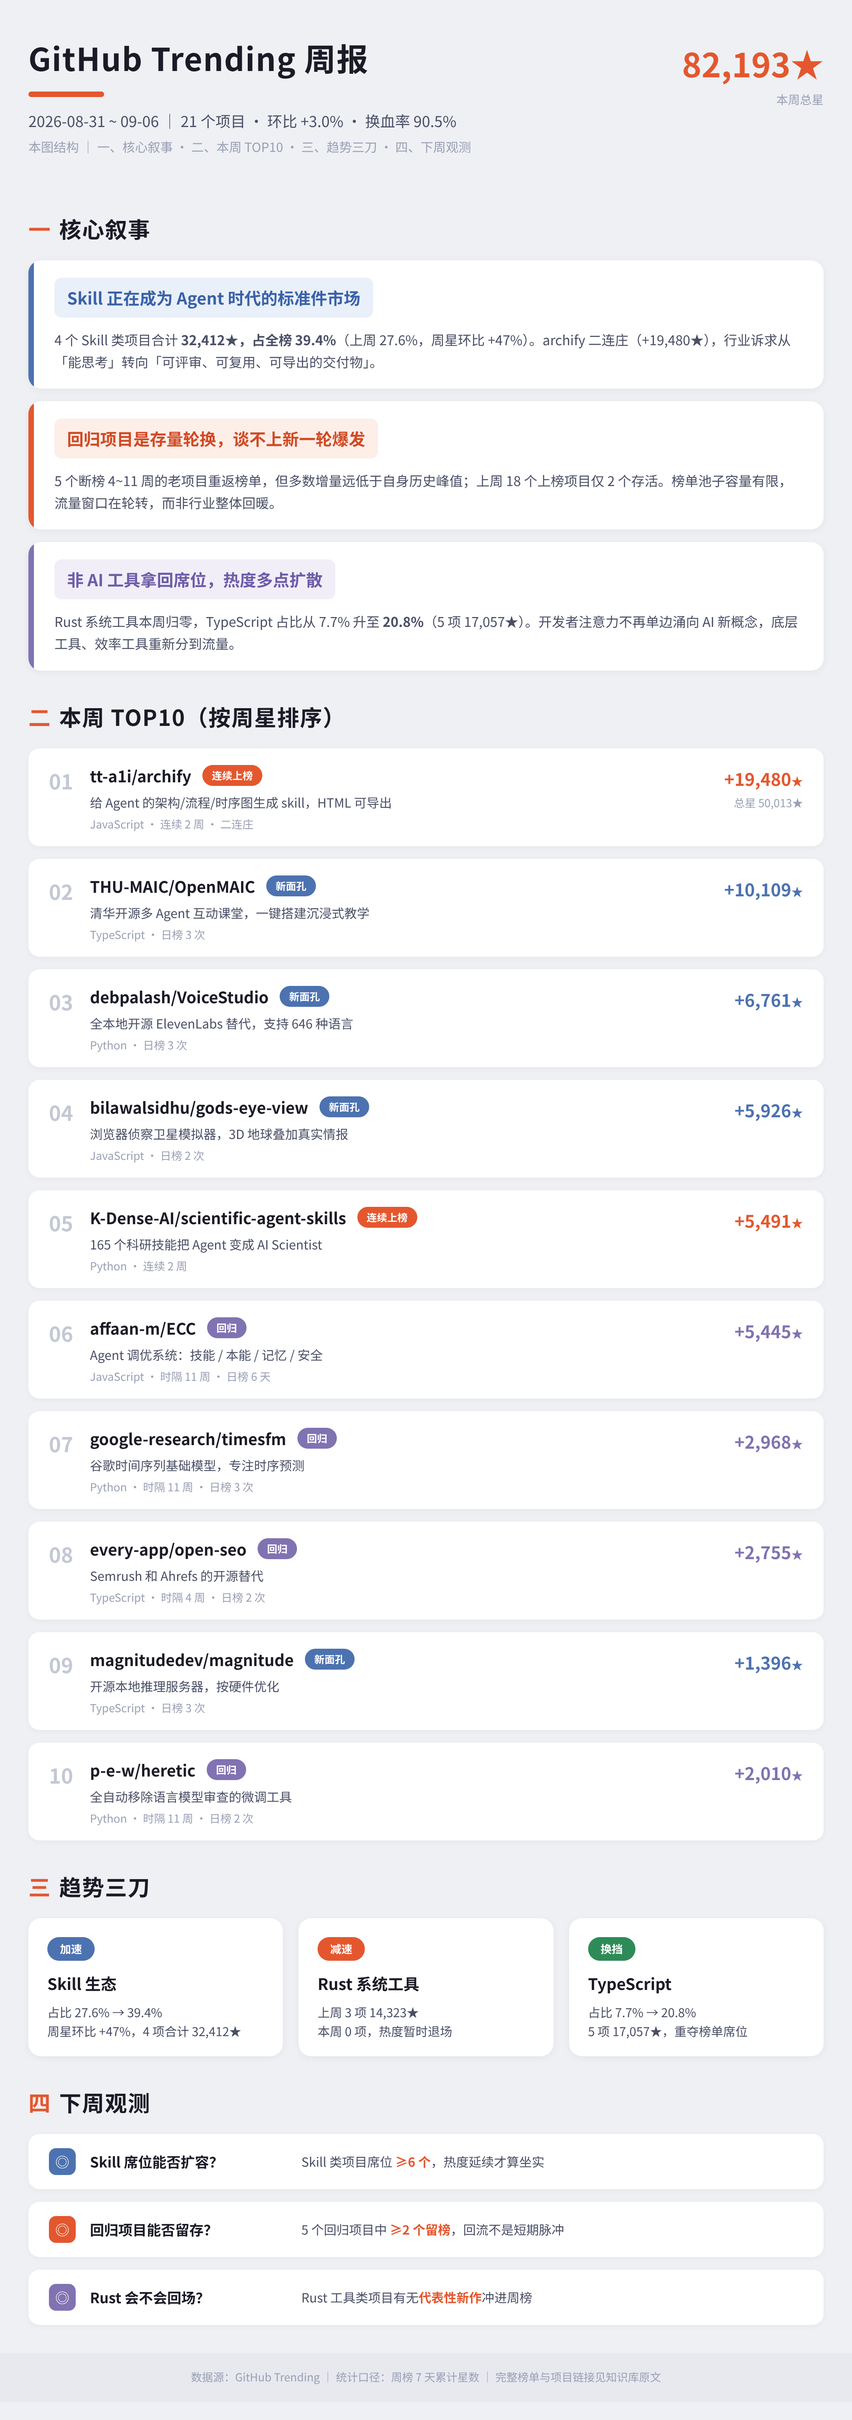
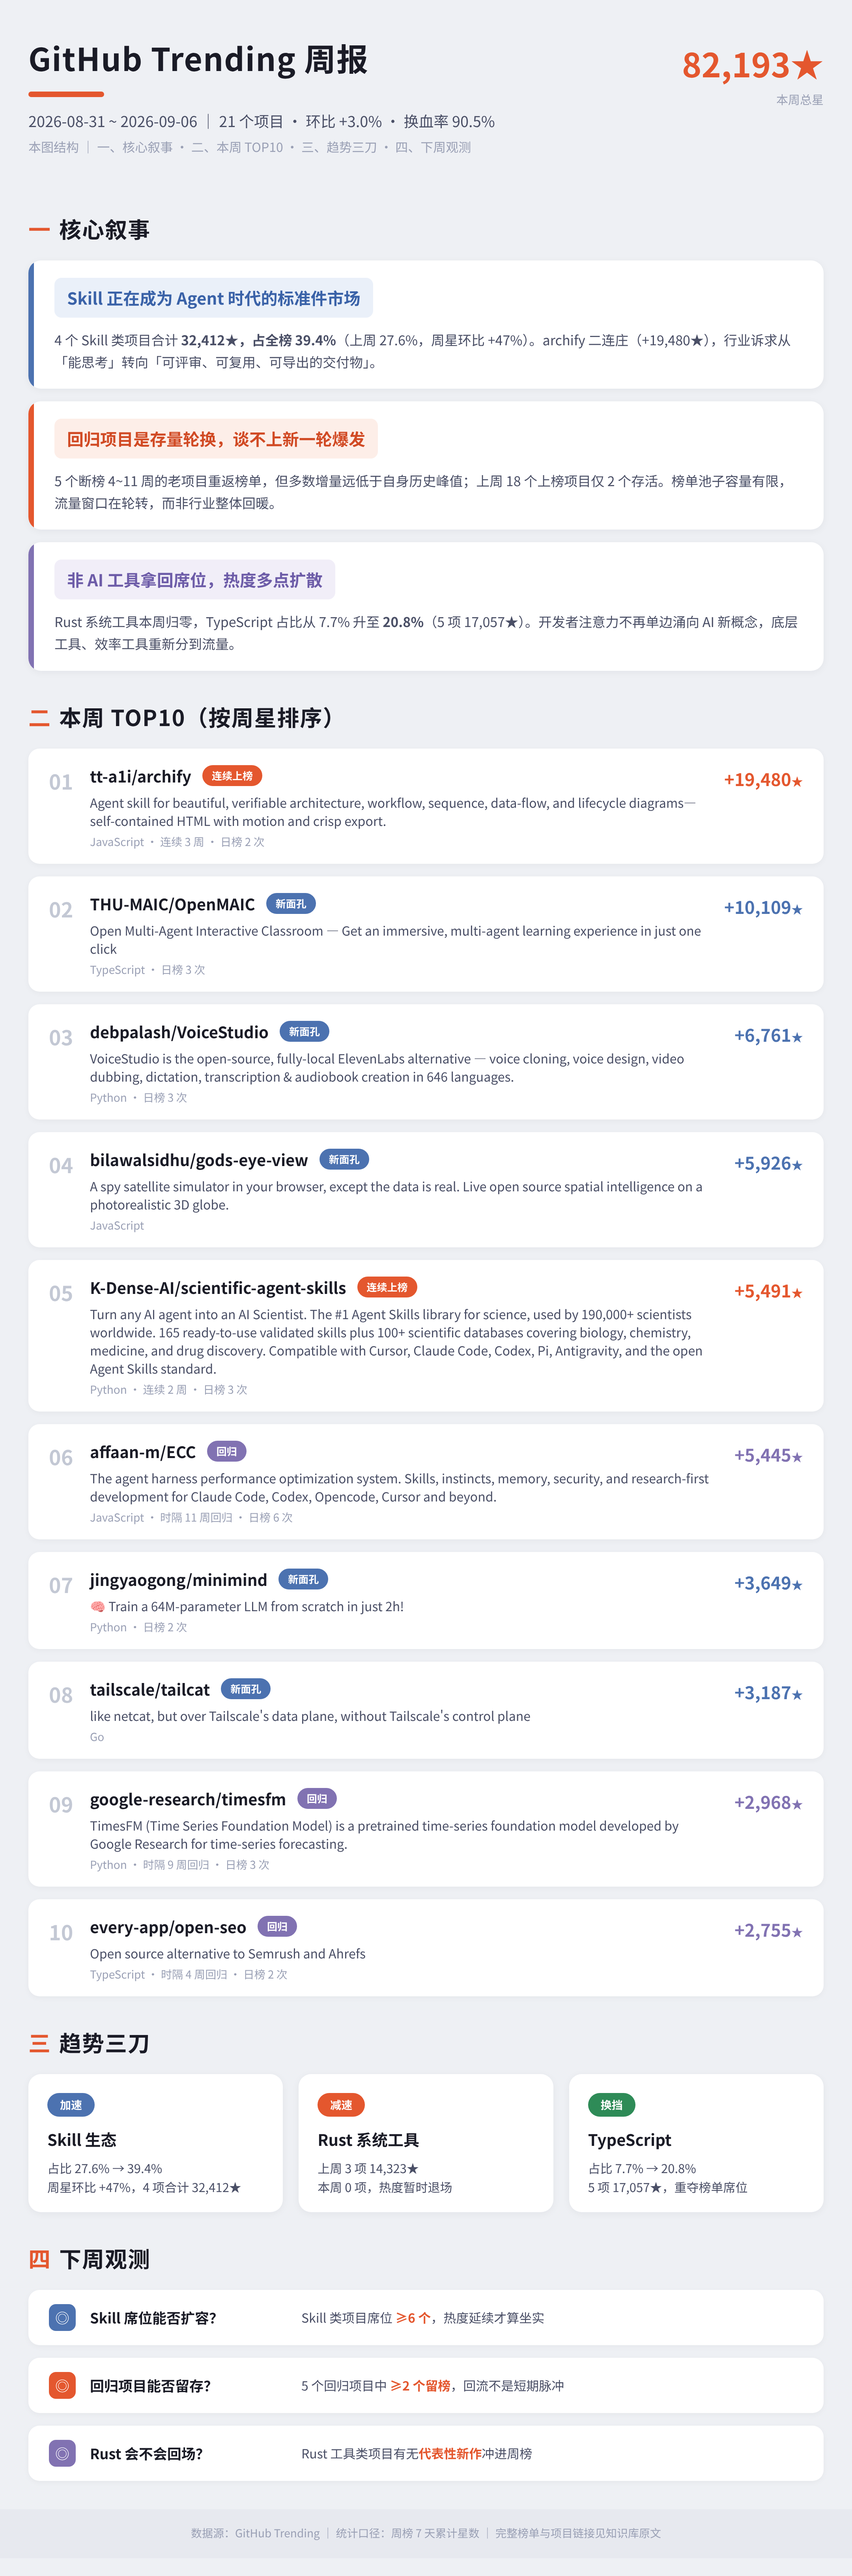
wiki: digest infographic generator (HTML->chromium) + doc swap (digest front, stars in overview); timesfm gap fix 11->9w

diff --git a/scripts/weekly_digest_html.py b/scripts/weekly_digest_html.py
@@ -1,0 +1,222 @@
+#!/usr/bin/env python3
+# -*- coding: utf-8 -*-
+"""周报一图流生成器（HTML → Chromium 截图）
+用法：python3 weekly_digest_html.py <week_end YYYY-MM-DD>
+数据源：/srv/www/github-trending-wiki/data/github_trending.db（weekly_trending / trending_daily / repo_stats）
+输出：reports/weekly/weekly-<week_end>-digest.png（2160px 宽）
+叙事文案需人工审校：本脚本只生成骨架 + 榜单数据，NARRATIVES/KNIVES/WATCH 内容按周报正文替换。
+"""
+import sqlite3, sys, subprocess, os
+import numpy as np
+from PIL import Image
+
+REPO = '/srv/www/github-trending-wiki'
+DB = f'{REPO}/data/github_trending.db'
+
+week_end = sys.argv[1] if len(sys.argv) > 1 else '2026-09-06'
+from datetime import datetime, timedelta
+week_start = (datetime.strptime(week_end, '%Y-%m-%d') - timedelta(days=6)).strftime('%Y-%m-%d')
+
+db = sqlite3.connect(DB)
+
+# ── 基础数据 ──
+rows = list(db.execute(
+    "SELECT repo_full_name, weekly_stars, language, rank, description FROM weekly_trending "
+    "WHERE week_end=?", (week_end,)))
+WK = {r[0]: r[1] for r in rows}
+LANG = {r[0]: r[2] or '' for r in rows}
+DESC = {r[0]: (r[4] or '').strip() for r in rows}
+total_stars = sum(WK.values())
+n_projects = len(rows)
+
+# 上周数据（环比 + 换血）
+prev_end = None
+prev_total = None
+prev_names = set()
+r = db.execute("SELECT MAX(week_end) FROM weekly_trending WHERE week_end<?", (week_end,)).fetchone()
+if r and r[0]:
+    prev_end = r[0]
+    prev_total = db.execute("SELECT SUM(weekly_stars) FROM weekly_trending WHERE week_end=?", (prev_end,)).fetchone()[0] or 0
+    prev_names = {x[0] for x in db.execute("SELECT repo_full_name FROM weekly_trending WHERE week_end=?", (prev_end,))}
+wow = (total_stars - prev_total) / prev_total * 100 if prev_total else 0
+churn = sum(1 for n in WK if n not in prev_names) / n_projects * 100 if prev_names else 0
+
+# 组别推导：连续 / 回归（断档周数）/ 新面孔
+def weeks_gone(name):
+    """断档周数：按日历周差算（DB 可能缺周，如 2026-08-02），上周减上次上榜周的周数差"""
+    r = db.execute("SELECT MAX(week_end) FROM weekly_trending WHERE repo_full_name=? AND week_end<?", (name, prev_end)).fetchone()
+    if not r or not r[0]:
+        return 99
+    from datetime import datetime
+    import datetime as dt
+    cur = datetime.strptime(r[0], '%Y-%m-%d') + dt.timedelta(days=7)
+    gap = 0
+    while cur < datetime.strptime(prev_end, '%Y-%m-%d'):
+        gap += 1
+        cur += dt.timedelta(days=7)
+    return gap
+
+GROUP = {}
+for name in WK:
+    if name in prev_names:
+        GROUP[name] = ('连续上榜', 'orange')
+    else:
+        g = weeks_gone(name)
+        GROUP[name] = (f'断档 {g} 周', 'purple') if g <= 11 else ('新面孔', 'blue')
+
+# 日榜次数（本周期内）
+daily = {}
+for name, cnt in db.execute(
+        "SELECT repo_full_name, COUNT(*) FROM trending_daily "
+        "WHERE date BETWEEN ? AND ? AND repo_full_name IN ({}) GROUP BY repo_full_name".format(
+            ','.join('?' * len(WK))), (week_start, week_end, *WK.keys())):
+    daily[name] = cnt
+
+# ── TOP10 副信息行 ──
+def subline(name):
+    tag, color = GROUP[name]
+    parts = []
+    if LANG[name]:
+        parts.append(LANG[name])
+    if name in prev_names:
+        n_weeks = db.execute("SELECT COUNT(DISTINCT week_end) FROM weekly_trending WHERE repo_full_name=? AND week_end<=?", (name, week_end)).fetchone()[0]
+        parts.append(f'连续 {n_weeks} 周' if tag == '连续上榜' else '')
+    elif tag.startswith('断档'):
+        parts.append(f'时隔 {tag[3:-1]} 周回归')
+    if daily.get(name):
+        parts.append(f'日榜 {daily[name]} 次')
+    return ' · '.join(p for p in parts if p)
+
+top10 = sorted(WK.items(), key=lambda kv: kv[1], reverse=True)[:10]
+
+# ══ 生成 HTML（叙事区留占位，按周改） ══
+TAG_LABEL = {'blue': '新面孔', 'orange': '连续上榜', 'purple': '回归'}
+C = {'blue': '#4C72B0', 'orange': '#E4572E', 'purple': '#8172B2', 'green': '#2E8B57'}
+
+# TODO(每周手填)：NARRATIVES / KNIVES / WATCH 按周报正文更新
+NARRATIVES = [
+    (C['blue'], '#EAF0F9', '#3A62A8', 'Skill 正在成为 Agent 时代的标准件市场',
+     '4 个 Skill 类项目合计 <b>32,412★，占全榜 39.4%</b>（上周 27.6%，周星环比 +47%）。archify 二连庄（+19,480★），行业诉求从「能思考」转向「可评审、可复用、可导出的交付物」。'),
+    (C['orange'], '#FDEEE8', '#D14A24', '回归项目是存量轮换，谈不上新一轮爆发',
+     '5 个断榜 4~11 周的老项目重返榜单，但多数增量远低于自身历史峰值；上周 18 个上榜项目仅 2 个存活。榜单池子容量有限，流量窗口在轮转，而非行业整体回暖。'),
+    (C['purple'], '#F1EEF8', '#6D5CA8', '非 AI 工具拿回席位，热度多点扩散',
+     'Rust 系统工具本周归零，TypeScript 占比从 7.7% 升至 <b>20.8%</b>（5 项 17,057★）。开发者注意力不再单边涌向 AI 新概念，底层工具、效率工具重新分到流量。'),
+]
+KNIVES = [
+    (C['blue'], '加速', 'Skill 生态', '占比 27.6% → 39.4%<br>周星环比 +47%，4 项合计 32,412★'),
+    (C['orange'], '减速', 'Rust 系统工具', '上周 3 项 14,323★<br>本周 0 项，热度暂时退场'),
+    (C['green'], '换挡', 'TypeScript', '占比 7.7% → 20.8%<br>5 项 17,057★，重夺榜单席位'),
+]
+WATCH = [
+    ('Skill 席位能否扩容？', 'Skill 类项目席位 <b>≥6 个</b>，热度延续才算坐实'),
+    ('回归项目能否留存？', '5 个回归项目中 <b>≥2 个留榜</b>，回流不是短期脉冲'),
+    ('Rust 会不会回场？', 'Rust 工具类项目有无<b>代表性新作</b>冲进周榜'),
+]
+
+def esc(s):
+    return s.replace('&', '&amp;').replace('<', '&lt;')
+
+top10_html = ''
+for i, (name, stars) in enumerate(top10):
+    tag, color = GROUP[name]
+    s = f'+{stars:,}<span style="font-size:15px">★</span>'
+    top10_html += f'''<div class="row">
+    <div class="idx">{i+1:02d}</div>
+    <div class="main">
+      <div class="l1"><span class="name">{esc(name)}</span><span class="tag" style="background:{C[color]}">{TAG_LABEL[color]}</span></div>
+      <div class="desc">{esc(DESC.get(name, ''))}</div>
+      <div class="sub">{esc(subline(name))}</div>
+    </div>
+    <div class="stars"><div class="wk" style="color:{C[color]}">{s}</div></div>
+  </div>'''
+
+narr_html = ''.join(f'''<div class="narr">
+  <div class="spine" style="background:{c}"></div>
+  <div class="body"><div class="ttl" style="background:{bg};color:{fg}">{t}</div><p>{p}</p></div>
+</div>''' for c, bg, fg, t, p in NARRATIVES)
+
+knife_html = ''.join(f'''<div class="knife"><span class="tag" style="background:{c}">{tag}</span>
+  <h3>{t}</h3><p>{p}</p></div>''' for c, tag, t, p in KNIVES)
+
+watch_html = ''.join(f'''<div class="watch"><div class="ico" style="background:{c}">◎</div>
+  <div class="q">{q}</div><div class="m">{m}</div></div>'''
+    for (q, m), c in zip(WATCH, [C['blue'], C['orange'], C['purple']]))
+
+HTML = f'''<!DOCTYPE html><html lang="zh"><head><meta charset="UTF-8">
+<style>
+  * {{ margin:0; padding:0; box-sizing:border-box; }}
+  body {{ font-family:'Noto Sans CJK SC','Noto Sans SC',sans-serif; background:#EEF0F4; width:1080px; }}
+  .wrap {{ padding:0 36px; }}
+  .head {{ padding:44px 36px 34px; display:flex; justify-content:space-between; align-items:flex-start; }}
+  .head h1 {{ font-size:40px; font-weight:900; color:#1A1B26; letter-spacing:1px; }}
+  .head .bar {{ width:96px; height:7px; background:#E4572E; border-radius:4px; margin:14px 0 16px; }}
+  .head .meta {{ font-size:19px; color:#4A4F66; font-weight:500; }}
+  .head .toc {{ font-size:16px; color:#9AA0B5; margin-top:8px; }}
+  .head .right {{ text-align:right; padding-top:6px; }}
+  .head .num {{ font-size:42px; font-weight:900; color:#E4572E; }}
+  .head .lbl {{ font-size:15px; color:#9AA0B5; margin-top:4px; }}
+  .sec {{ font-size:28px; font-weight:900; color:#1A1B26; margin:38px 0 20px; letter-spacing:1px; }}
+  .sec .no {{ color:#E4572E; margin-right:10px; }}
+  .narr {{ background:#fff; border-radius:16px; margin-bottom:16px; overflow:hidden;
+          box-shadow:0 2px 10px rgba(26,27,38,.05); display:flex; }}
+  .narr .spine {{ width:7px; flex-shrink:0; }}
+  .narr .body {{ padding:22px 26px 20px; flex:1; }}
+  .narr .ttl {{ font-size:21px; font-weight:700; padding:10px 16px; border-radius:9px; margin-bottom:14px; display:inline-block; }}
+  .narr p {{ font-size:17px; color:#4A4F66; line-height:1.65; }}
+  .row {{ background:#fff; border-radius:14px; margin-bottom:16px; padding:20px 26px 18px;
+         box-shadow:0 2px 8px rgba(26,27,38,.04); display:flex; align-items:flex-start; }}
+  .row .idx {{ font-size:26px; font-weight:900; color:#C3C8D4; width:52px; flex-shrink:0; padding-top:2px; }}
+  .row .main {{ flex:1; min-width:0; padding-right:20px; }}
+  .row .l1 {{ display:flex; align-items:center; gap:14px; margin-bottom:8px; }}
+  .row .name {{ font-size:20px; font-weight:700; color:#1A1B26; }}
+  .row .tag {{ font-size:13px; font-weight:700; color:#fff; padding:4px 12px; border-radius:20px; white-space:nowrap; }}
+  .row .desc {{ font-size:16px; color:#4A4F66; margin-bottom:5px; }}
+  .row .sub {{ font-size:14px; color:#9AA0B5; margin-top:2px; }}
+  .row .stars {{ text-align:right; flex-shrink:0; padding-top:2px; }}
+  .row .wk {{ font-size:22px; font-weight:900; }}
+  .knives {{ display:flex; gap:20px; }}
+  .knife {{ flex:1; background:#fff; border-radius:16px; padding:24px 24px 20px; box-shadow:0 2px 10px rgba(26,27,38,.05); }}
+  .knife .tag {{ display:inline-block; font-size:14px; font-weight:700; color:#fff; padding:5px 16px; border-radius:20px; margin-bottom:14px; }}
+  .knife h3 {{ font-size:20px; font-weight:700; color:#1A1B26; margin-bottom:10px; }}
+  .knife p {{ font-size:15.5px; color:#4A4F66; line-height:1.55; }}
+  .watch {{ background:#fff; border-radius:14px; margin-bottom:16px; padding:18px 26px;
+           box-shadow:0 2px 8px rgba(26,27,38,.04); display:flex; align-items:center; gap:18px; }}
+  .watch .ico {{ width:34px; height:34px; border-radius:9px; color:#fff; display:flex; align-items:center; justify-content:center; font-size:18px; flex-shrink:0; }}
+  .watch .q {{ font-size:18px; font-weight:700; color:#1A1B26; width:250px; flex-shrink:0; }}
+  .watch .m {{ font-size:16px; color:#4A4F66; }}
+  .watch .m b {{ color:#E4572E; }}
+  .foot {{ background:#E7E9EF; padding:20px 0 22px; margin-top:36px; text-align:center; font-size:14px; color:#9AA0B5; }}
+</style></head><body>
+<div class="head">
+  <div class="left"><h1>GitHub Trending 周报</h1><div class="bar"></div>
+    <div class="meta">{week_start} ~ {week_end} ｜ {n_projects} 个项目 · 环比 {wow:+.1f}% · 换血率 {churn:.1f}%</div>
+    <div class="toc">本图结构 ｜ 一、核心叙事 · 二、本周 TOP10 · 三、趋势三刀 · 四、下周观测</div></div>
+  <div class="right"><div class="num">{total_stars:,}★</div><div class="lbl">本周总星</div></div>
+</div>
+<div class="wrap">
+<div class="sec"><span class="no">一</span>核心叙事</div>
+{narr_html}
+<div class="sec"><span class="no">二</span>本周 TOP10（按周星排序）</div>
+{top10_html}
+<div class="sec"><span class="no">三</span>趋势三刀</div>
+<div class="knives">{knife_html}</div>
+<div class="sec"><span class="no">四</span>下周观测</div>
+{watch_html}
+</div>
+<div class="foot">数据源：GitHub Trending ｜ 统计口径：周榜 7 天累计星数 ｜ 完整榜单与项目链接见知识库原文</div>
+</body></html>'''
+
+tmp_html = f'/tmp/weekly_digest_{week_end}.html'
+open(tmp_html, 'w').write(HTML)
+png = f'{REPO}/reports/weekly/weekly-{week_end}-digest.png'
+subprocess.run(['chromium', '--headless=new', '--no-sandbox', '--disable-gpu',
+                '--disable-dev-shm-usage', '--hide-scrollbars',
+                '--force-device-scale-factor=2', '--window-size=1080,3600',
+                f'--screenshot={png}.raw.png', tmp_html], check=True)
+im = Image.open(f'{png}.raw.png')
+a = np.asarray(im.convert('L'))
+content_end = np.where((a < 235).any(axis=1))[0].max()
+im.crop((0, 0, 2160, int(content_end) + 46)).save(png)
+os.remove(f'{png}.raw.png')
+print(f'saved: {png} | 2160x{int(content_end)+46}px | total {total_stars:,}★ wow {wow:+.1f}% churn {churn:.1f}%')
+print('NOTE: NARRATIVES/KNIVES/WATCH 为上周内容，每周发文前需按周报正文更新')
